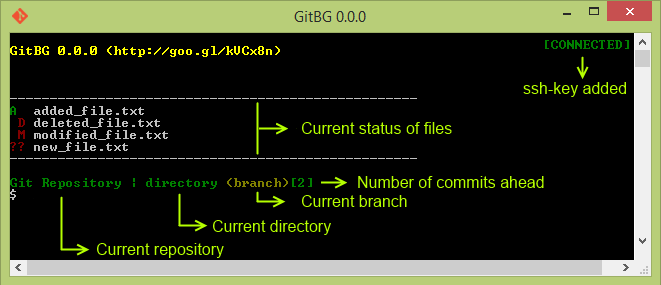
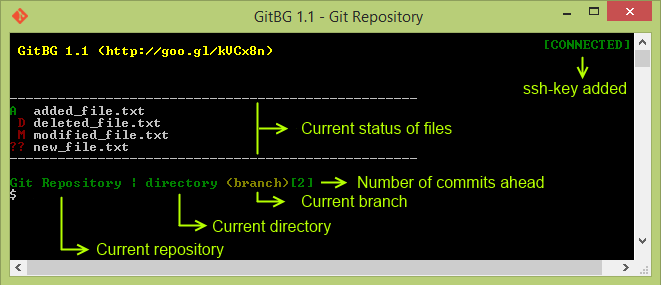
Version 1.1 created.

Changed region(s): [[0.0, 0.1404, 0.4236, 0.1965], [0.3631, 0.0281, 0.6354, 0.0842]]

diff --git a/README.md b/README.md
@@ -1,4 +1,4 @@
-GitBG 0.1.0
+GitBG 1.0
 ===========
 It's a prompt for git repositories that works in Windows by MINGW.
 
@@ -8,7 +8,7 @@ Features
 --------
 * Number of commits ahead (green) or behind (red) from remote branch
 * Avoid insert password every update for ssh protocol
-* Show short status of files before each prompt line
+* Show short status of files with double enter
 * Colored current branch
     - Cyan: new files
     - Red: deleted files
@@ -17,7 +17,12 @@ Features
 
 What's new?
 -----------
-#### 0.1.0
+#### 1.1
+* Double enter: print files and connection status
+* New function: add_ssh_key 
+* Branch name bug fixed 
+
+#### 1.0
 * Fixed number of commits behind: format and color
 * Optimized some functions
 * Name of repository in console title
@@ -90,7 +95,7 @@ SSH logon time (in seconds):
 
     git config gitBG.logonTime 36000
 
-Print "git status -s" after prompt:
+Print "git status -s" with double enter:
 
     git config gitBG.status true
     git config gitBG.status false
@@ -123,27 +128,43 @@ The possibles colors are:
 | White          | $GITBG_COLOR_WHITE    |
 | White (bold)   | $GITBG_COLOR_WHITE2   |
 
-
-Color for modified file:
+Color branch for modified file:
 
     git config gitBG.color.modifiedFile $GITBG_COLOR_GREEN2
 
-Color for deleted file:
+Color branch for deleted file:
 
     git config gitBG.color.deletedFile $GITBG_COLOR_RED
 
- Color for new file:
+ Color branch for new file:
 
     git config gitBG.color.newFile $GITBG_COLOR_CYAN
 
- Color for not added file:
+ Color branch for not added file:
 
     git config gitBG.color.notAddedFile $GITBG_COLOR_BLUE
 
- Color for added file:
+ Color branch for added file:
 
     git config gitBG.color.addedFile $GITBG_COLOR_YELLOW
 
+## Defaut variables
+The default variables are:
+
+| Variable          | Value                   |
+| -------------     | -------------           |
+| reset             | true                    |
+| logon             | true                    |
+| logoff            | false                   |
+| logoTime          | 36000                   |
+| status            | true                    |
+| maxLineStatus     | 15                      |
+| path              | "~/GitBG"               |
+| modifiedFile      | $GITBG_COLOR_GREEN2     |
+| deletedFile       | $GITBG_COLOR_RED        |
+| newFile           | $GITBG_COLOR_CYAN       |
+| notAddedFile      | $GITBG_COLOR_BLUE       |
+| addedFile         | $GITBG_COLOR_YEALLOW    |
 
 Author
 ------
